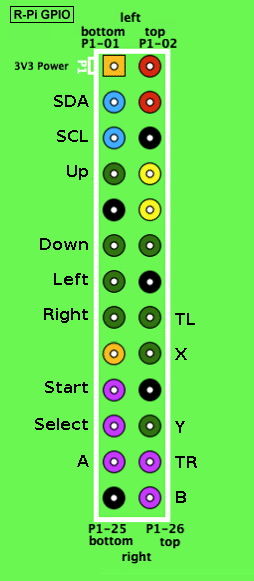
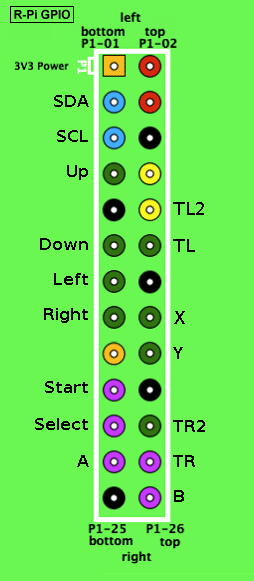
changed pinout summury images

diff --git a/README.md b/README.md
@@ -6,7 +6,7 @@ Introduction
 -------------
 The RaspberryPi is an amazing tool I discovered a month ago. The RetroPie project made me want to build my own Arcade Cabinet with simple arcade buttons and joysticks.
 
-The Raspberry Pi Board B Rev 2 has a maximum of 21 usable GPIOs, not enough to wire all the 24 switches (2 joystick and 16 buttons) that a standard panel requires.
+The Raspberry Pi Board B Rev 2 has a maximum of 21 usable GPIOs, not enough to wire all the 28 switches (2 joystick and 20 buttons) that a standard panel requires.
 
 A hardware solution
 -------------
@@ -16,7 +16,7 @@ The Software
 -------------
 The joystick driver is based on the gamecon_gpio_rpi driver by [marqs](https://github.com/marqs85)
 
-It is written for 4 directions joysticks and 8 buttons per player.
+It is written for 4 directions joysticks and 10 buttons per player.
 
 It can read one joystick + buttons wired on RPi GPIOs and up to 5 other joysticks + buttons from MCP23017 chips. One MCP23017 is required for each joystick.
 
